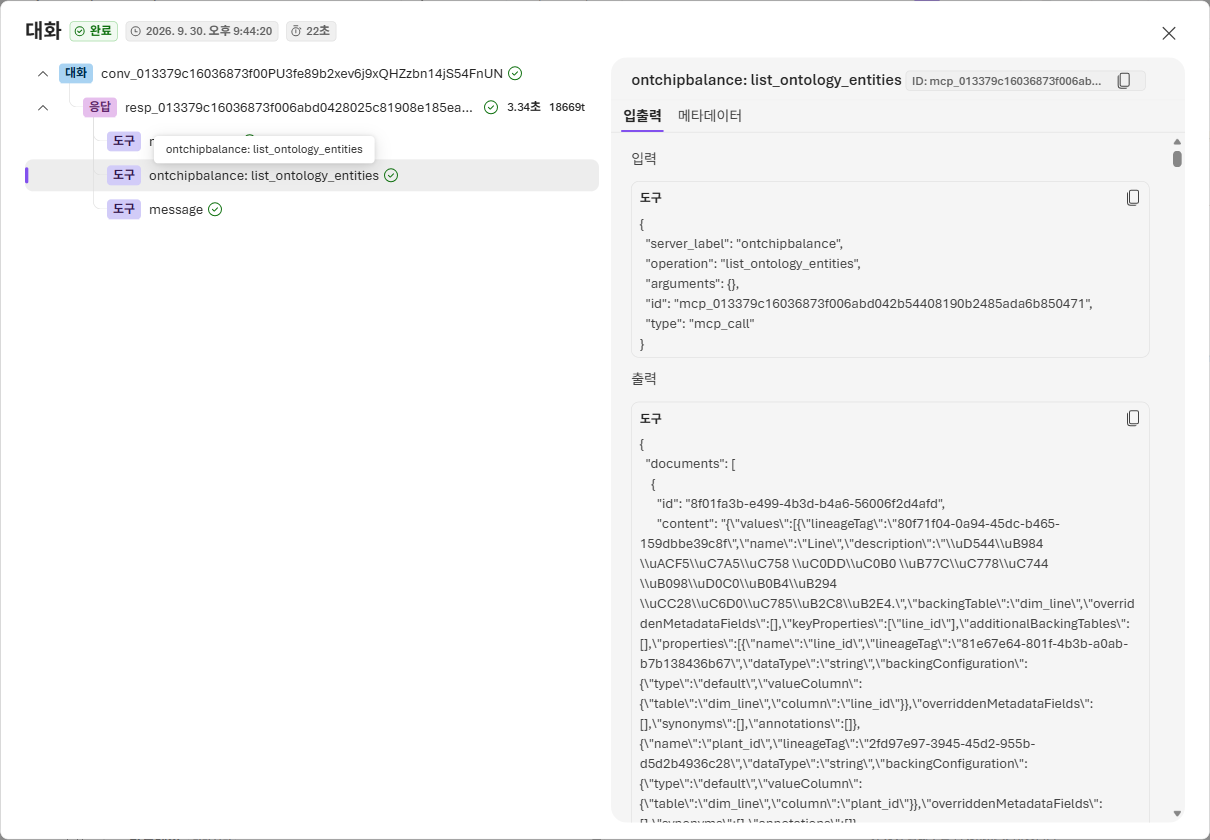
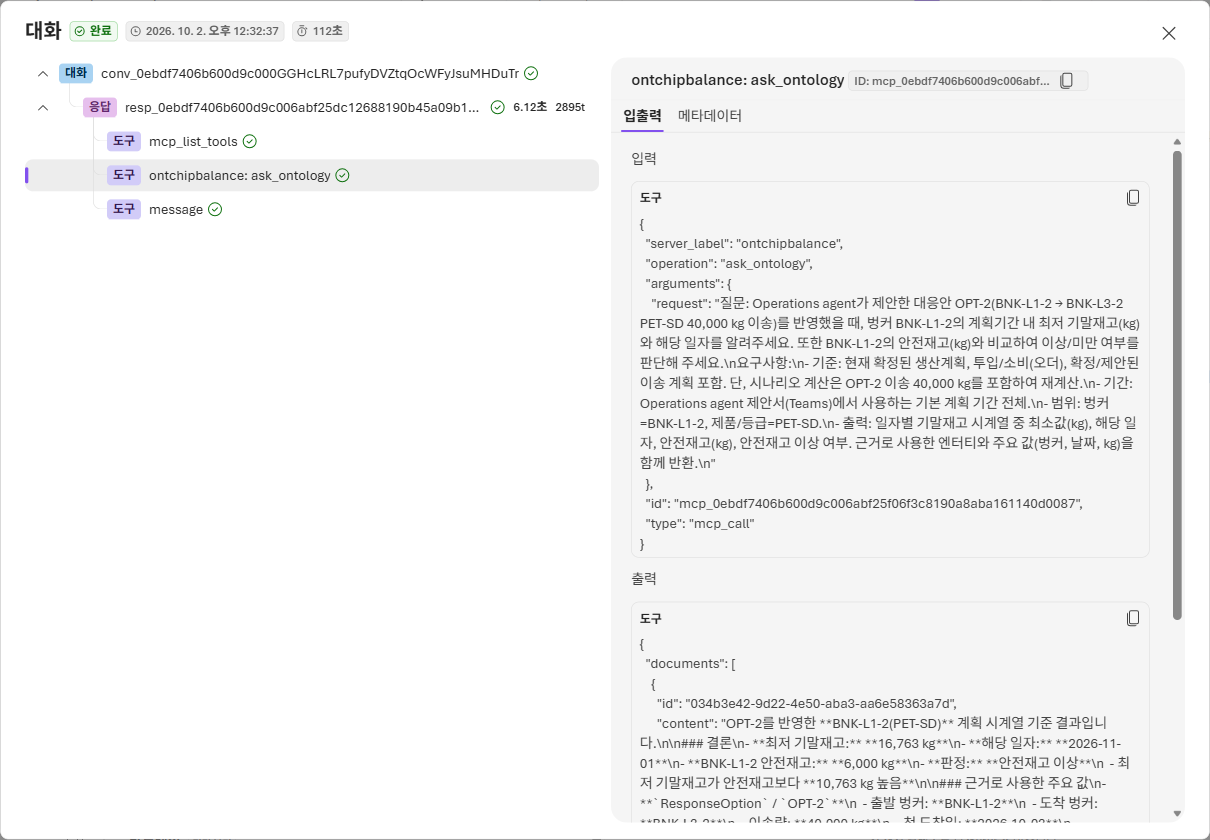
Chapter 12: Foundry agent answers Ontology values through ask_ontology; update admin notes

diff --git a/docs/12-foundry-agent.rst b/docs/12-foundry-agent.rst
@@ -18,7 +18,7 @@
    * - 에이전트 ``fa-chipbalance``
      - 한국어 지침에 따라 질문에 답합니다. 모델은 ``gpt-5``\ 입니다.
    * - Fabric IQ 도구 (``ont_chipbalance``)
-     - Ontology의 엔터티 타입, 속성, 관계, 데이터 바인딩을 에이전트에 제공합니다. 로그인한 사용자의 Fabric 권한으로 읽습니다.
+     - 질문을 Ontology에 넘겨 엔터티·관계와 연결된 데이터로 답을 받아 옵니다. 로그인한 사용자의 Fabric 권한으로 읽습니다.
 
 에이전트 이름에는 영문, 숫자, ``-``\ 만 쓸 수 있습니다. 그래서 ``fa_chipbalance``\ 가 아니라 ``fa-chipbalance``\ 로 만듭니다.
 
@@ -125,29 +125,25 @@
 
    .. code-block:: text
 
-      OPT-2를 검토하려면 ont_chipbalance의 어떤 엔터티와 속성을 봐야 하나요? 대응안이 판단 기준을 만족하는지 보는 속성과 벙커별 안전재고를 보는 속성을 알려 주세요.
+      OPT-2(BNK-L1-2 → BNK-L3-2 PET-SD 40,000 kg 이송)를 반영하면 BNK-L1-2의 최저 기말재고는 몇 kg이고, 안전재고 이상인가요?
 
-   **예상 결과:** 대응안 판단 기준은 **ResponseOption**\ 의 ``c1_safety_pass``, ``c2_capacity_pass``, ``c3_due_date_pass``, ``c4_route_limit_pass``, ``meets_all``, 벙커별 안전재고는 **Bunker**\ 의 ``safety_stock_kg``\ 와 **OptionBalance**·**DailyBalance**\ 의 ``safety_stock_kg``, ``closing_kg``, ``below_safety``\ 라고 답합니다. 답 아래에 근거 표시 ``ontchipbalance``\ 가 있습니다. 문장은 AI가 만들므로 조금 다를 수 있습니다.
+   **예상 결과:** 최저 기말재고 16,763 kg(2026-11-01), 안전재고 6,000 kg으로 안전재고 이상이라고 답합니다. 근거로 **ResponseOption** ``OPT-2``\ (BNK-L1-2 → BNK-L3-2, 40,000 kg, 첫 도착일 2026-10-03), **Bunker** BNK-L1-2의 안전재고, **OptionBalance**\ 의 일자별 기말재고를 들고, 답 아래에 근거 표시 ``ontchipbalance``\ 가 있습니다. 09장 Ontology agent의 Q4 답과 같은 값입니다. 문장은 AI가 만들므로 조금 다를 수 있습니다. (1~2분)
 
-   .. image:: ../assets/screenshots/d12-ask-schema.png
-      :alt: fa-chipbalance 채팅 창. 질문 아래 답에 대응안 판단 기준 충족 여부 Entity ResponseOption, Properties c1_safety_pass, c2_capacity_pass, c3_due_date_pass, c4_route_limit_pass, meets_all, option_name, 벙커별 안전재고 확인 Entity Bunker, Property safety_stock_kg, OptionBalance와 DailyBalance의 safety_stock_kg, below_safety, closing_kg가 보입니다. 아래에 근거 ontchipbalance 두 개와 mcp_list_tools, ontchipbalance, message 표시가 있습니다.
+   .. image:: ../assets/screenshots/d12-ask-value.png
+      :alt: fa-chipbalance 채팅 창. 질문 아래 답에 최저 기말재고 16,763 kg (일자 2026-11-01), 안전재고 6,000 kg 대비 이상입니다가 있고, 근거 엔터티/값으로 ResponseOption OPT-2 BNK-L1-2 → BNK-L3-2, PET-SD, 40,000 kg, 첫 도착일 2026-10-03, Bunker BNK-L1-2 안전재고 6,000 kg, OptionBalance OPT-2 BNK-L1-2 일자별 기말재고 시계열 최저 16,763 kg at 2026-11-01이 보입니다. 아래에 근거 ontchipbalance 표시와 mcp_list_tools, ontchipbalance, message가 있습니다.
       :width: 700
 
-#. 답 아래의 **추적**\ 을 누르고, 왼쪽 목록에서 **ontchipbalance: list_ontology_entities**\ 를 고릅니다.
+#. 답 아래의 **추적**\ 을 누르고, 왼쪽 목록에서 **ontchipbalance: ask_ontology**\ 를 고릅니다.
 
-   **예상 결과:** 에이전트가 Fabric IQ 도구로 ``list_ontology_entities``\ 를 호출했고, **출력**\ 에 ``ont_chipbalance``\ 의 엔터티 정의(예: ``Line``\ 의 ``backingTable``\ 이 ``dim_line``)가 들어 있습니다. 에이전트는 이 정의를 근거로 답했습니다.
+   **예상 결과:** 에이전트가 Fabric IQ 도구의 ``ask_ontology``\ 로 질문을 Ontology에 넘겼고, **출력**\ 에 Ontology가 데이터에서 찾은 결론(최저 기말재고 16,763 kg, 일자 2026-11-01, 안전재고 6,000 kg, 안전재고 이상)이 들어 있습니다. 에이전트는 이 결과를 근거로 답했습니다.
 
    .. image:: ../assets/screenshots/d12-trace.png
-      :alt: 대화 추적 창. 왼쪽에 응답 아래 도구 mcp_list_tools, ontchipbalance: list_ontology_entities, message가 있고 ontchipbalance: list_ontology_entities가 선택되어 있습니다. 오른쪽 입출력 탭의 입력에는 server_label ontchipbalance, operation list_ontology_entities, 출력에는 documents 아래 Line 엔터티 정의와 backingTable dim_line이 보입니다.
+      :alt: 대화 추적 창. 왼쪽에 응답 아래 도구 mcp_list_tools, ontchipbalance: ask_ontology, message가 있고 ontchipbalance: ask_ontology가 선택되어 있습니다. 오른쪽 입출력 탭의 입력에는 server_label ontchipbalance, operation ask_ontology와 OPT-2를 반영한 BNK-L1-2의 최저 기말재고를 묻는 request가 있고, 출력에는 최저 기말재고 16,763 kg, 해당 일자 2026-11-01, BNK-L1-2 안전재고 6,000 kg, 판정 안전재고 이상이 보입니다.
       :width: 1000
 
 #. 오른쪽 위 **X**\ 를 눌러 추적 창을 닫습니다.
 
-.. note::
-
-   이 환경에서 Fabric IQ 도구가 에이전트에 주는 기능은 Ontology의 엔터티 목록(``list_ontology_entities``)과 규칙 목록(``list_ontology_rules``)입니다.
-   에이전트는 엔터티 타입, 속성, 관계, 데이터 바인딩, 업무 규칙 설명을 근거로 답합니다.
-   ``OPT-2``\ 를 반영한 BNK-L1-2의 최저 기말재고(16,763 kg)처럼 날짜별 값이 필요한 질문은 09장 Ontology agent에서 확인합니다.
+Fabric IQ 도구는 질문에 따라 Ontology의 엔터티 정의를 읽거나(``list_ontology_entities``), 질문을 Ontology에 넘겨 연결된 데이터로 답을 받습니다(``ask_ontology``).
 
 6. (참고) Work IQ 도구 붙이기
 --------------------------------
@@ -175,7 +171,7 @@ Troubleshooting
 * **프로젝트 만들기**\ 에서 권한 오류가 나면 관리자에게 리소스 그룹 권한을 확인합니다(`관리자 준비 가이드 <../admin/README.rst>`_\ 의 "4. Microsoft Foundry").
 * **에이전트 이름**\ 에 ``_``\ 를 넣으면 만들 수 없습니다. ``fa-chipbalance``\ 처럼 ``-``\ 를 씁니다.
 * **OneLake 카탈로그**\ 에 ``ont_chipbalance``\ 가 없으면 Foundry와 Fabric에 같은 계정으로 로그인했는지, ``chipbalance-p001`` 작업 영역에 권한이 있는지 확인합니다.
-* 질문을 보냈는데 **추적**\ 에 ``ontchipbalance: list_ontology_entities``\ 가 없으면 **도구**\ 에 **Fabric IQ (ontchipbalance)**\ 가 있는지, **저장**\ 을 눌렀는지 확인하고 오른쪽 위 **새 채팅**\ 에서 다시 묻습니다.
+* 질문을 보냈는데 **추적**\ 에 ``ontchipbalance: ask_ontology``\ 가 없으면 **도구**\ 에 **Fabric IQ (ontchipbalance)**\ 가 있는지, **저장**\ 을 눌렀는지 확인하고 오른쪽 위 **새 채팅**\ 에서 다시 묻습니다.
 
 다음 단계
 ------------

diff --git a/README.rst b/README.rst
@@ -36,7 +36,7 @@ Workshop: 원료 칩 수급과 긴급 수주 대응
 * `09. Ontology agent에 질문하기 <docs/09-ontology-agent.rst>`_ — 업무 규칙을 Ontology 설명에 넣고, Genie와 같은 질문을 Ontology agent에 해 정답과 비교합니다.
 * `10. Power BI 보고서 <docs/10-power-bi.rst>`_ — Direct Lake semantic model에 관계와 측정값을 넣고, 원료 수급 현황과 긴급 수주 대응안 보고서를 만듭니다.
 * `11. Operations agent <docs/11-operations-agent.rst>`_ — Eventhouse에 위험 이벤트를 보내면 Operations agent가 대응안을 Teams로 제안하고, 승인하면 Notebook이 승인 기록을 남깁니다.
-* `12. Foundry agent <docs/12-foundry-agent.rst>`_ — Microsoft Foundry 에이전트에 Fabric IQ 도구로 Ontology를 연결하고, 대응안을 검토할 때 볼 엔터티와 속성을 묻습니다.
+* `12. Foundry agent <docs/12-foundry-agent.rst>`_ — Microsoft Foundry 에이전트에 Fabric IQ 도구로 Ontology를 연결하고, 대응안의 근거 수치를 묻습니다.
 * `13. 마무리 <docs/13-finish.rst>`_ — 만든 결과를 확인하고, 에이전트를 멈추고 용량을 정리합니다.
 
 실습 파일

diff --git a/docs/13-finish.rst b/docs/13-finish.rst
@@ -38,7 +38,7 @@
      - Teams에서 ``OPT-2``\ 를 승인하면 ``RiskEventStatus``\ 에 ``approved`` 행이, ``dbo.chip_decision_log``\ 에 승인 내역이 생깁니다.
    * - 12
      - Foundry 프로젝트 ``chipbalance-p001``, 에이전트 ``fa-chipbalance``
-     - 에이전트가 Fabric IQ 도구로 ``ont_chipbalance``\ 를 읽고, 대응안 검토에 쓸 엔터티와 속성을 답합니다.
+     - 에이전트가 Fabric IQ 도구로 ``ont_chipbalance``\ 에 물어, ``OPT-2``\ 를 반영한 BNK-L1-2의 최저 기말재고 16,763 kg이 안전재고 6,000 kg 이상이라고 답합니다.
 
 같은 Gold를 Genie, Ontology agent, Power BI, Operations agent, Foundry agent가 함께 씁니다.
 계산은 Databricks에서 한 번 하고, 결정은 담당자가 Teams에서 합니다.
